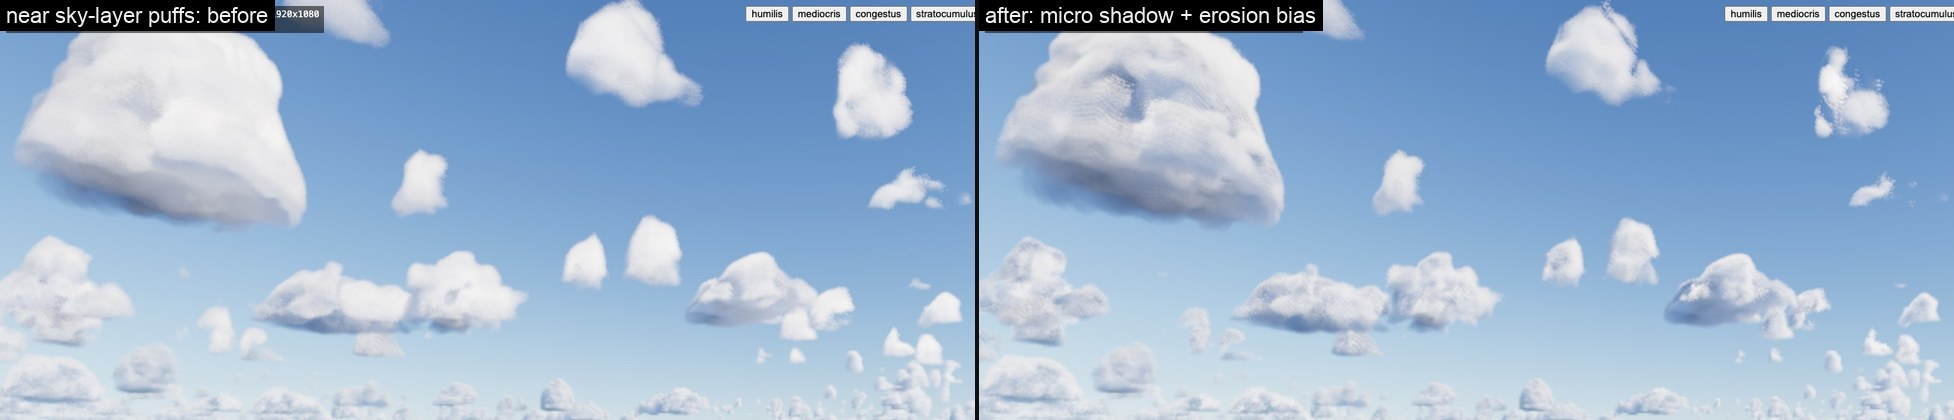
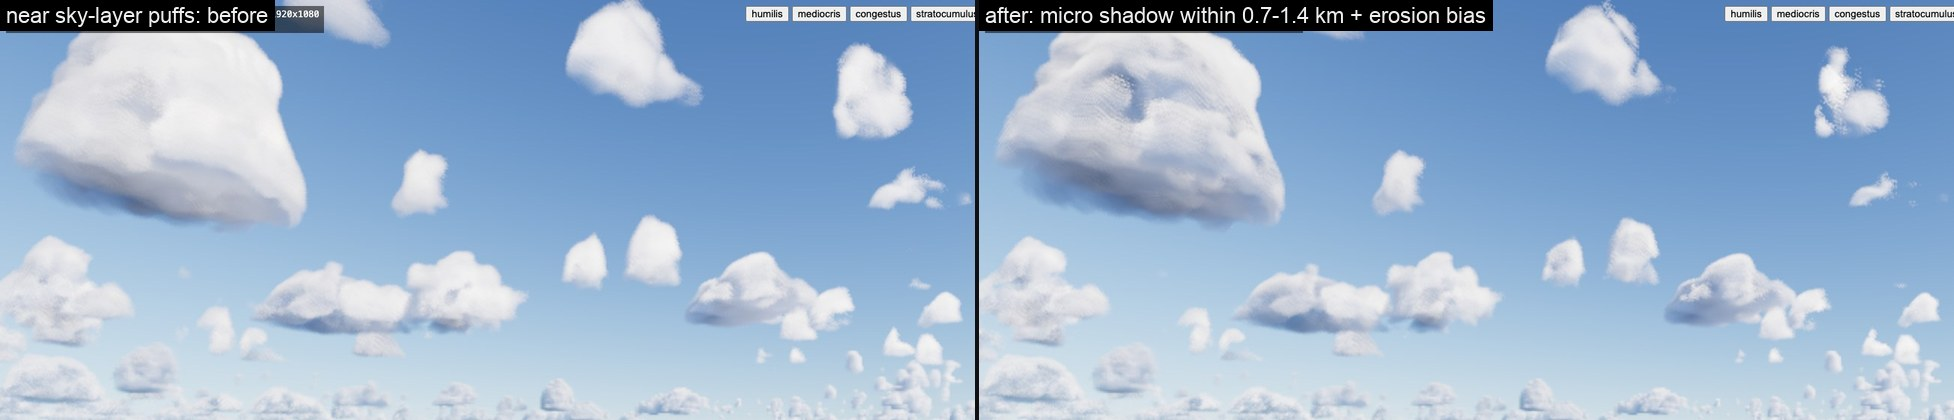
WIP Q2 item 7b: near sky-layer micro shadow only within 0.7-1.4 km (further out it showed the noise tile as a weave)

diff --git a/packages/runtime/src/shaders/sky-layer.wgsl.ts b/packages/runtime/src/shaders/sky-layer.wgsl.ts
@@ -482,7 +482,7 @@ const SKY_UP_L = array<f32, 3>(48.0, 64.0, 160.0);
 const SKY_LIGHT_MIN_OPTICAL_DEPTH = 2.0e-3;
 const SKY_LIGHT_REFRESH_M = 24.0;      // lighting varies slowly along the ray: re-evaluate every (24 m + 3% of the distance)
 const SKY_LIGHT_REFRESH_REL = 0.03;
-const SKY_MICRO_NEAR = 1500.0;   // Q2: metres; the near micro shadow fades out over 1.5-3 km
+const SKY_MICRO_NEAR = 700.0;   // Q2: metres; the near micro shadow fades out over 0.7-1.4 km (further out it shows the noise tile as a regular weave)
 ${SKY_FIELD_WGSL}
 // Full up-rez density at a light-sample point (the in-line sun samples: the surface detail matters there).
 fn skyDensityLight(p: vec3<f32>, rayDistance: f32, inputs: DensityInputs, view: SkyModel) -> f32 {
